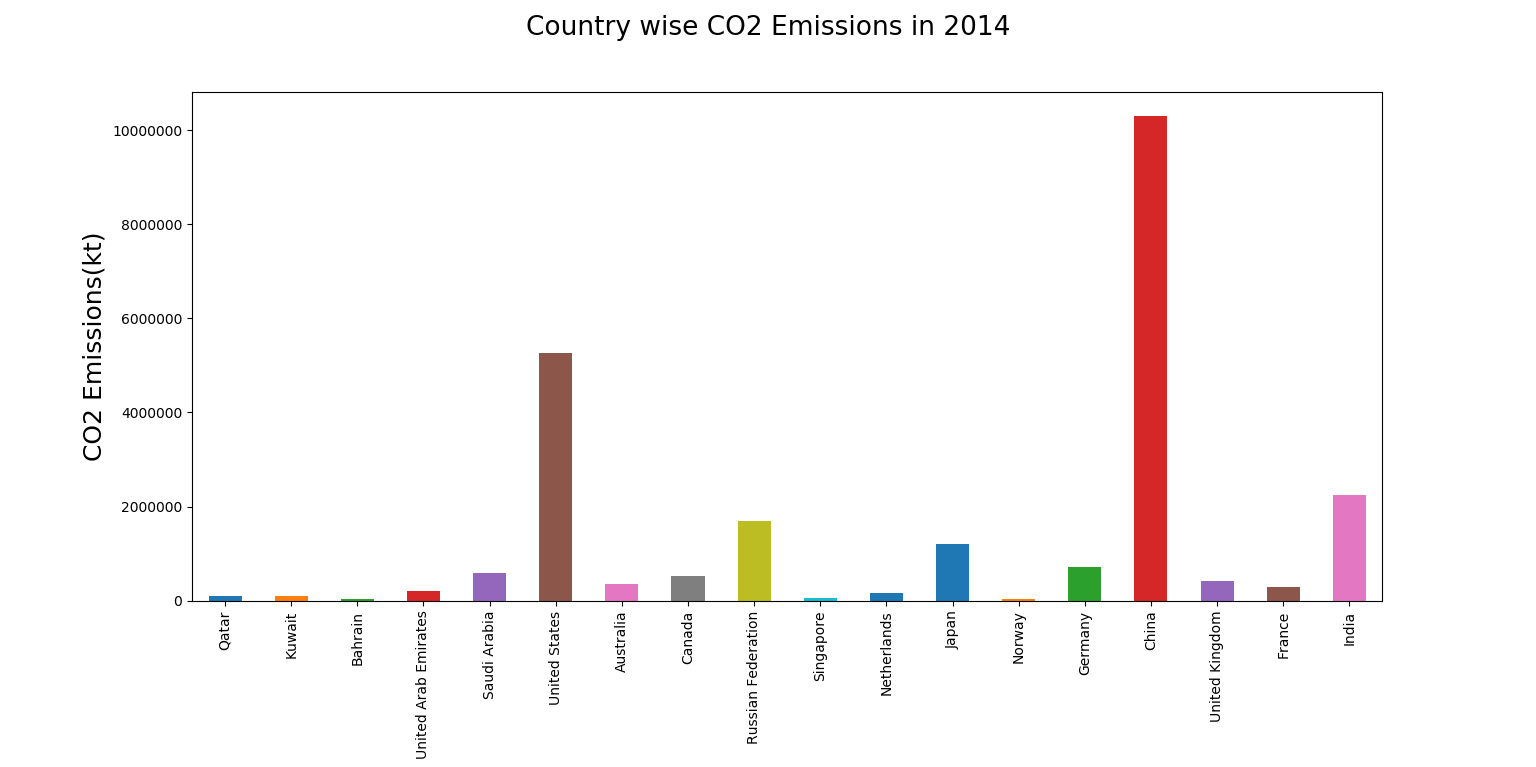
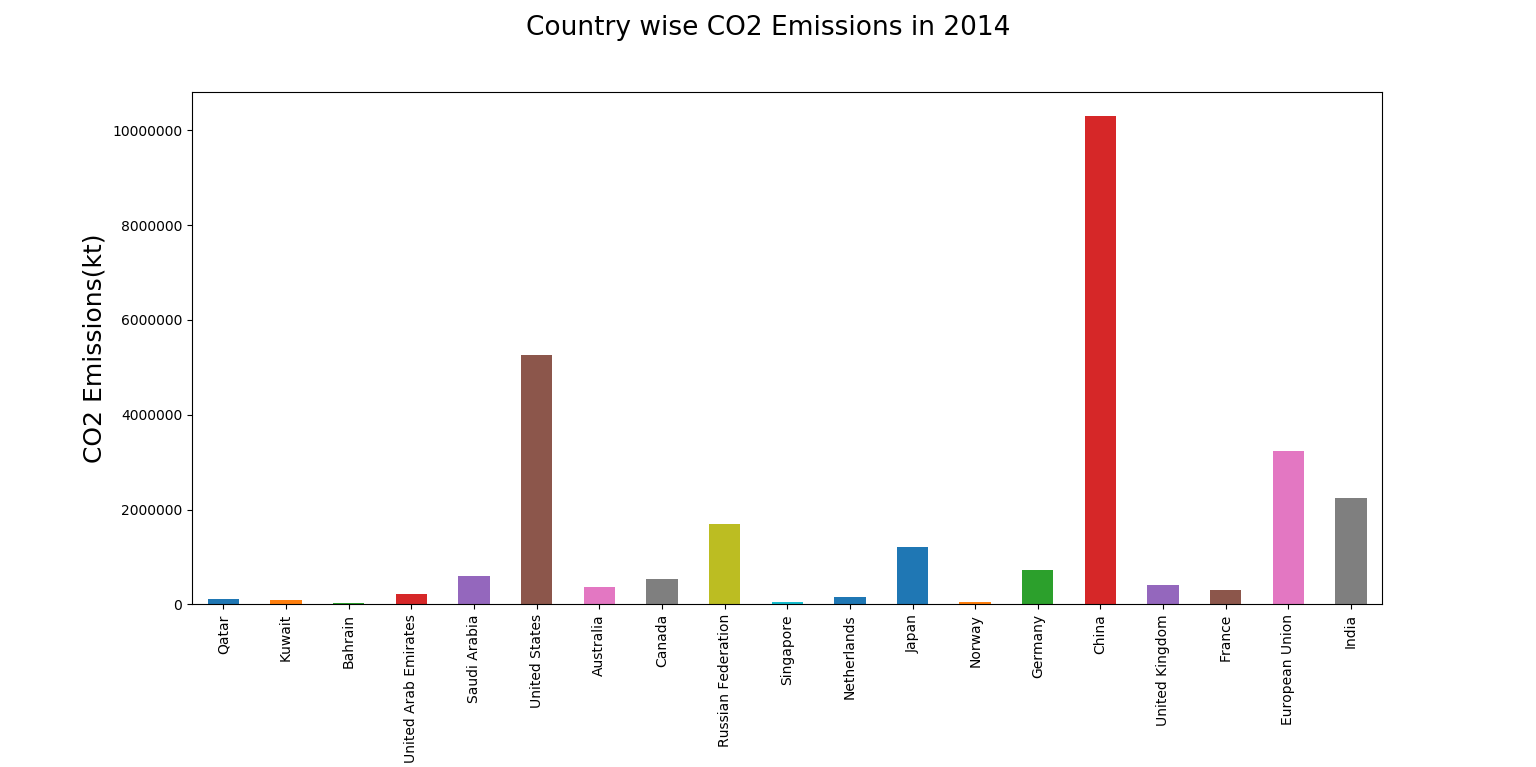
Add files via upload

diff --git a/TotalCO2Emission_2014_BarGraph.py b/TotalCO2Emission_2014_BarGraph.py
@@ -10,7 +10,7 @@ df1 = data.parse('Data', skiprows=3)
 df1 = df1.drop(["Country Code", "Indicator Name", "Indicator Code"], axis=1)
 df1 = df1.set_index("Country Name")
 #print (df1.loc['India']['2014'])
-df1.loc[["Qatar", "Kuwait","Bahrain","United Arab Emirates","Saudi Arabia","United States","Australia","Canada","Russian Federation","Singapore","Netherlands", "Japan","Norway","Germany", "China", "United Kingdom" ,"France","India"], "2014"].plot(kind='bar')
+df1.loc[["Qatar", "Kuwait","Bahrain","United Arab Emirates","Saudi Arabia","United States","Australia","Canada","Russian Federation","Singapore","Netherlands", "Japan","Norway","Germany", "China", "United Kingdom" ,"France","European Union","India"], "2014"].plot(kind='bar')
 
 #Fromatting axis ticks
 plt.ticklabel_format(useOffset=False, style='plain', axis='y')
